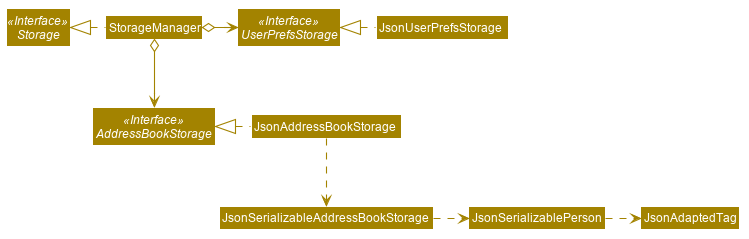
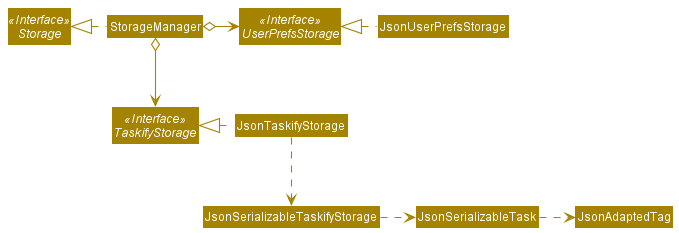
Change StorageClassDiagram

Changed region(s): [[0.0, 0.03, 0.7732, 0.2403], [0.2784, 0.8112, 1.0, 0.9914], [0.1237, 0.3906, 0.5567, 0.6309]]

diff --git a/docs/DeveloperGuide.md b/docs/DeveloperGuide.md
@@ -160,16 +160,16 @@ The `Model`,
 
 ![Structure of the Storage Component](images/StorageClassDiagram.png)
 
-**API** : [`Storage.java`](https://github.com/se-edu/addressbook-level3/tree/master/src/main/java/seedu/address/storage/Storage.java)
+**API** : [`Storage.java`](https://github.com/AY2021S2-CS2103T-W14-4/tp/blob/master/src/main/java/seedu/taskify/storage/Storage.java)
 
 The `Storage` component,
 
 * can save `UserPref` objects in json format and read it back.
-* can save the address book data in json format and read it back.
+* can save the Taskify data in json format and read it back.
 
 ### Common classes
 
-Classes used by multiple components are in the `seedu.addressbook.commons` package.
+Classes used by multiple components are in the `seedu.taskify.commons` package.
 
 
 ## **Documentation, logging, testing, configuration, dev-ops**
